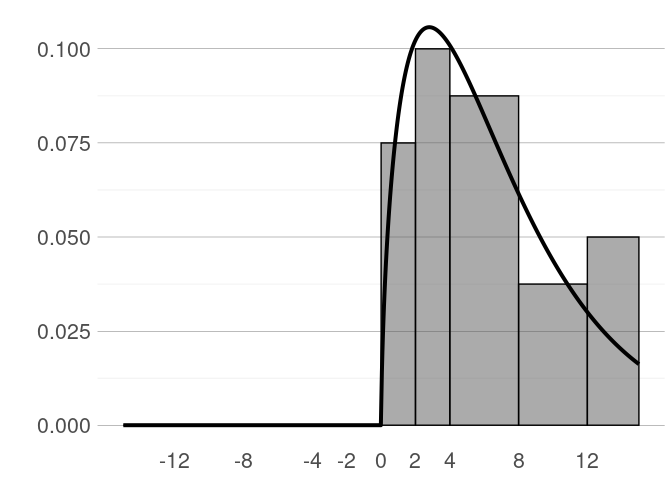
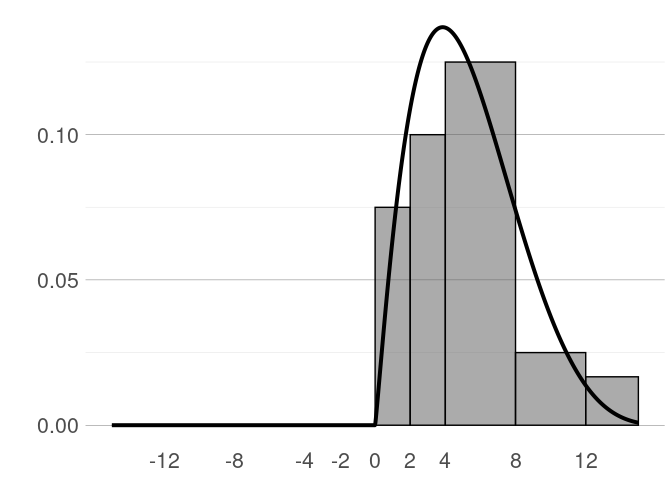
update example

diff --git a/readme.md b/readme.md
@@ -3,16 +3,16 @@ forecasthistogram
 
 ## About
 
-The forecasthistogram package contains functions to handle and study
-subjective probabilities (‘forecast histograms’) as collected in several
-economic surveys. The package accompanies the paper ‘Quantifying
+This is an in-progress R package that contains functions to handle and
+study subjective probabilities (‘forecast histograms’) as collected in
+several economic surveys. The package accompanies the paper ‘Quantifying
 subjective uncertainty in survey expectations’ by Fabian Krüger and Lora
 Pavlova, available at
 <https://econpapers.wiwi.kit.edu/downloads/KITe_WP_139.pdf> (updated
 version coming soon).
 
 The package is presently available via GitHub only. To install the
-package, use
+package, use the following:
 
 ``` r
 #library(remotes)
@@ -25,13 +25,13 @@ library(magrittr)
 ## Example
 
 The following code generates a forecast histogram object, plots it, and
-computes several summary measures
+computes several summary measures.
 
 ``` r
 # Vector of upper bin limits used in the NY Fed's Survey of Consumer Expectations
 ub <- c(-12, -8, -4, -2, 0, 2, 4, 8, 12, Inf)
 # Example vector of probabilities
-p <- c(rep(0, 5), c(.15, .2, .35, .15, .15))
+p <- c(rep(0, 5), c(.15, .2, .5, .1, .05))
 # Make forecast histogram object and quantify it (see ?quantify)
 f <- forecasthistogram(p, ub) %>% quantify
 # Plot histogram
@@ -45,25 +45,25 @@ plot(f)
 mean(f)
 ```
 
-    ## [1] 6.667544
+    ## [1] 5.249223
 
 ``` r
 quantile(f, probs = c(.1, .25, .5, .75, .9))
 ```
 
-    ##       10%       25%       50%       75%       90% 
-    ##  1.504580  2.962047  5.506022  9.155062 13.410458
+    ##      10%      25%      50%      75%      90% 
+    ## 1.795743 3.048362 4.898946 7.106687 9.219803
 
 ``` r
 # Compute ERPS measure proposed by Krüger and Pavlova (2022)
 erps(f)
 ```
 
-    ## [1] 0.6925
+    ## [1] 0.53
 
 ``` r
 # Alternatively: Computation based on original probabilities
 sum(cumsum(p)*(1-cumsum(p)))
 ```
 
-    ## [1] 0.6925
+    ## [1] 0.53
